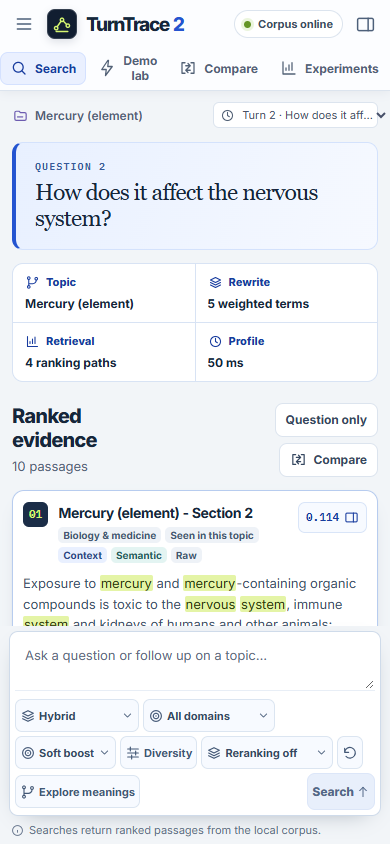
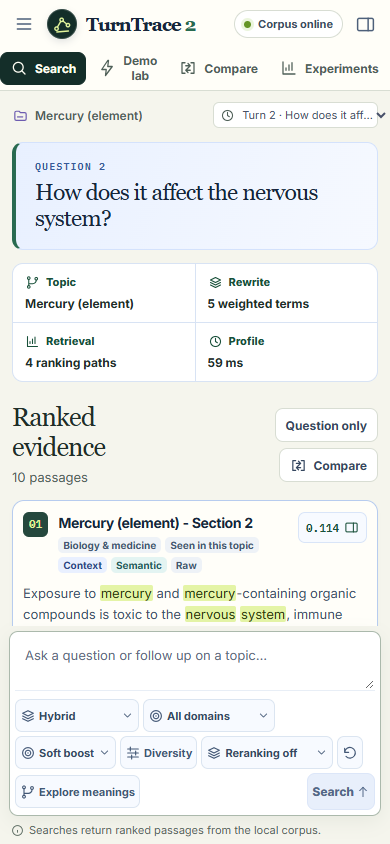
Refresh the TurnTrace frontend and demo previews

diff --git a/client/src/atlas.css b/client/src/atlas.css
@@ -1,0 +1,80 @@
+/* Paper surfaces and engraved orbital artwork for the research workspace. */
+:root {
+  --ink: #202e29;
+  --muted: #4f6058;
+  --subtle: #58685e;
+  --line: #d8ddd3;
+  --canvas: #f5f5ed;
+  --navy: #142e29;
+  --navy-raised: #25483d;
+  --violet: #286a50;
+  --violet-dark: #185039;
+  --violet-soft: #e3eee3;
+  --lime: #e0f39a;
+  --card-shadow: 0 3px 8px -6px #34413344;
+}
+.workspace .topbar { background: #fffef8; box-shadow: none; }
+.brand { font-family: Georgia, serif; font-weight: 700; letter-spacing: -.055em; }
+.brand-mark { border-radius: 50%; transform: rotate(-5deg); }
+.main-nav button.active { background: var(--navy); color: #fffef4; border-color: var(--navy); }
+.sidebar { background: linear-gradient(163deg,#203e35,#112a25 68%); }
+.topic-button.selected { background: #335543; border-color: #627b61; }
+.sidebar-empty { border-color: #678075; color: #c1d1c6; }
+.main-pane { background: var(--canvas); }
+.welcome .hero {
+  isolation: isolate;
+  overflow: hidden;
+  background: radial-gradient(ellipse at 80% 55%,#36594a,#173d32 58%,#112f28);
+  border: 1px solid #234537;
+  border-radius: 18px;
+}
+.welcome .hero::before {
+  inset: 0;
+  background: radial-gradient(circle,#cfdfb63d .8px,transparent 1px) 0 0 / 19px 19px;
+  opacity: .48;
+}
+.hero-copy { width: 65%; }
+.hero h1 { margin-top: 0; font-size: clamp(38px,4.25vw,70px); }
+.hero h1 em { display: block; }
+.hero p { color: #e0eadc; }
+.hero-demo-link {
+  margin-top: 18px; display: inline-flex; align-items: center; gap: 9px;
+  background: #eef5cf; color: #203f30; border: 0; padding: 9px 14px;
+  border-radius: 24px; font-size: 12px; font-weight: 700;
+}
+.hero-demo-link:hover { background: white; }
+.atlas-planet {
+  position: absolute; pointer-events: none; z-index: -1;
+  width: 36%; aspect-ratio: 1; top: 50%; right: 1%; transform: translateY(-50%) rotate(-23deg);
+  border-radius: 50%; background: repeating-radial-gradient(ellipse at 20% -40%,transparent 0 4px,#263f32a3 5px 6px,transparent 7px 9px),radial-gradient(circle at 30% 25%,#f0ecc0,#b6c796 48%,#5a7962 75%,#2e5447);
+  box-shadow: inset -12px -9px 25px #17372a66,0 0 65px #dce8ac19;
+}
+.atlas-planet::before,.atlas-planet::after,.atlas-planet i {
+  content: ''; position: absolute; inset: 32% -25%; border: 1px solid #cddaaaab; border-radius: 50%;
+}
+.atlas-planet::after { inset: 29% -34%; border-width: 3px; border-top-color: transparent; }
+.atlas-planet i { inset: 25% -43%; border-style: dotted; }
+.section-heading h2,.demo-section-title h2,.demo-originals h2 { font: 500 26px/1.15 var(--display); letter-spacing: -.035em; }
+.starter-card,.demo-card,.evidence-card { background: #fffef9; border-color: var(--line); }
+.starter-card { border-top: 3px solid #749c83; }
+.starter-card:nth-child(3n+2) { border-top-color: #bd8b51; }
+.starter-card:nth-child(3n) { border-top-color: #79959d; }
+.starter-icon.color-1 { background: #f8ecd6; color: #80582b; }
+.starter-card strong,.demo-card h3 { font-family: var(--display); font-size: 20px; font-weight: 500; }
+.starter-card:hover:not(:disabled),.demo-card:hover,.demo-card.selected { border-color: #628b73; box-shadow: 0 4px 15px #294c3614; }
+.demo-card.selected { background: #f0f6e9; }
+.composer { border-color: #abb9ac; box-shadow: 0 5px 20px #253d2e13; }
+.composer:focus-within { border-color: #578668; box-shadow: 0 0 0 3px #739a7124; }
+.send-button,.button.primary { background: var(--violet-dark); color: white; }
+.demo-hero,.research-heading {
+  padding: clamp(18px,3vw,36px); border: 1px solid #cbd6c8; border-radius: 16px;
+  background: linear-gradient(115deg,#e5eddd,#f6f6eb 72%);
+}
+.demo-summary { border-radius: 10px; }
+.demo-tags span { background: #ecf0e7; color: #415846; }
+@media (max-width: 700px) {
+  .hero-copy { width: 76%; padding: 22px; }
+  .atlas-planet { width: 37%; right: -10%; opacity: .68; }
+  .hero-demo-link { margin-top: 12px; }
+  .starter-card strong { font-size: 17px; }
+}

diff --git a/client/src/components/SearchWorkspace.jsx b/client/src/components/SearchWorkspace.jsx
@@ -8,7 +8,7 @@ const suggestions = [
 ];
 const starterIcons = ['orbit', 'branch', 'layers', 'target', 'sparkle'];
 
-export function Welcome({ scenarios, onScenario, newTopic, disabled }) {
+export function Welcome({ scenarios, onScenario, onOpenDemos, newTopic, disabled }) {
   const [showAll, setShowAll] = useState(false);
   const examples = scenarios.length ? scenarios : suggestions;
   const visible = showAll ? examples : examples.slice(0, 3);
@@ -17,18 +17,13 @@ export function Welcome({ scenarios, onScenario, newTopic, disabled }) {
     <div className="welcome">
       <section className="hero">
         <div className="hero-copy">
-          <span className="hero-label"><Icon name="sparkle" size={15} /> RESEARCH WORKSPACE</span>
           <h1>{newTopic ? 'Start a new topic.' : <>Follow the <em>evidence.</em></>}</h1>
           <p>{newTopic
             ? 'Ask a question to start a separate topic. You can return to other topics from the sidebar.'
             : 'Explore a topic, ask follow-up questions, and see exactly how each search finds its evidence.'}</p>
+          <button type="button" className="hero-demo-link" onClick={onOpenDemos}>Explore demo lab <Icon name="arrowUpRight" size={15} /></button>
         </div>
-        <div className="hero-art" aria-hidden="true">
-          <i className="art-ring ring-one" /><i className="art-ring ring-two" /><i className="art-ring ring-three" />
-          <i className="axis axis-horizontal" /><i className="axis axis-vertical" />
-          <i className="art-node node-one" /><i className="art-node node-two" /><i className="art-node node-three" /><i className="art-node node-four" />
-          <span className="art-center"><Icon name="trace" size={29} /></span>
-        </div>
+        <div className="atlas-planet" aria-hidden="true"><i /></div>
       </section>
 
       <section className="starter-section" aria-labelledby="starter-title">

diff --git a/client/src/App.jsx b/client/src/App.jsx
@@ -545,7 +545,7 @@ export default function App() {
               feedbackDisabled={Boolean(activeDemo)} onFeedback={recordFeedback} onInspect={doc => { setDocument(doc); setMobilePane('trace'); }}
               onTrace={id => { setDocument(null); setTraceTab(id); setMobilePane('trace'); }}
               onCompare={() => { navigate('compare'); if (turn) compare(turn.query); }} />
-              : <Welcome scenarios={scenarios} onScenario={startScenario} newTopic={newTopic} disabled={searchDisabled} />}
+              : <Welcome onOpenDemos={() => navigate('demos')} scenarios={scenarios} onScenario={startScenario} newTopic={newTopic} disabled={searchDisabled} />}
           </>}
           {view === 'demos' && <DemoLab catalog={demoCatalog} error={demoCatalogError} loading={demoLoading} onReload={loadDemos} health={health}
             busy={Boolean(busy)||connecting} active={activeDemo} onStart={startDemo} onResume={()=>setView(activeDemo.lastView||'search')}

diff --git a/client/src/main.jsx b/client/src/main.jsx
@@ -10,3 +10,4 @@ ReactDOM.createRoot(document.getElementById('root')).render(
     <App />
   </React.StrictMode>
 );
+import './atlas.css';
